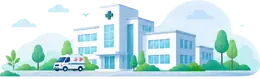
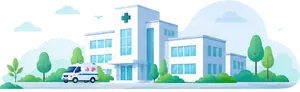
Swap the tile art per theme and add the press animation
Dark mode was dimming and desaturating the light illustrations, which left a
washed-out smudge rather than something drawn for a dark panel. Both cuts of
the sheet now ship and CSS picks by theme, so only the active theme's images
are ever fetched.

Every tile has art: Wards and Reserved take an abstract wave, since no
illustration means the right thing there and a first-aid kit on 'Reserved'
would be worse than none.

Cards shrink on hover and further on press while the art grows slightly -
the counter-motion is what reads as depth. Suppressed under
prefers-reduced-motion: eleven tiles animating at once is what that setting
exists for.

diff --git a/src/styles.css b/src/styles.css
@@ -896,6 +896,20 @@ body.hero-gone .appbar{
   min-height:88px;
   background:var(--panel);border:1px solid var(--line);border-radius:14px;
   padding:10px 11px;text-align:left;box-shadow:var(--shadow);
+  transition:transform .4s ease, box-shadow .4s ease;
+}
+/* Press-in feel: the card shrinks slightly on hover and further on click, while
+   the illustration grows a touch — the counter-motion is what makes it read as
+   depth rather than the whole tile just getting smaller. */
+.doc-stat:hover{transform:scale(.97);box-shadow:var(--shadow-md);}
+.doc-stat:hover .doc-stat-art{transform:scale(1.08);opacity:.55;}
+.doc-stat:active{transform:scale(.94);}
+/* Honour a reduced-motion preference: these tiles are ambient, and a scale
+   animation on eleven of them at once is exactly what that setting is for. */
+@media (prefers-reduced-motion:reduce){
+  .doc-stat,.doc-stat-art{transition:none;}
+  .doc-stat:hover,.doc-stat:active{transform:none;}
+  .doc-stat:hover .doc-stat-art{transform:none;}
 }
 .doc-stat-head{display:flex;align-items:flex-start;gap:6px;min-width:0;position:relative;z-index:1;}
 /* Solid accent disc with a white glyph. Deliberately not a tint: at this size a
@@ -926,24 +940,44 @@ body.hero-gone .appbar{
   line-height:1.2;text-align:center;
 }
 /* Watermark. Bottom-right, bleeding past the corner so it reads as texture
-   rather than a second element. Faint enough that it never competes with the
-   figure. */
+   rather than a second element. */
 .doc-stat-art{
-  position:absolute;right:-12px;bottom:-14px;z-index:0;pointer-events:none;
-  color:var(--accent);opacity:.07;line-height:0;
+  position:absolute;right:-6px;bottom:-6px;z-index:0;pointer-events:none;
+  width:78px;height:56px;
+  background-repeat:no-repeat;background-position:right bottom;background-size:contain;
+  opacity:.42;transition:transform .4s ease, opacity .4s ease;
 }
-[data-theme="dark"] .doc-stat-art{opacity:.12;}
+/* Dark mode swaps the ASSET rather than filtering the light one. Dimming and
+   desaturating a pale-mint illustration still leaves a washed-out grey smudge —
+   the art has to be drawn for a dark panel, not corrected towards one. Because
+   the swap happens in CSS, only the active theme's images are ever fetched. */
+[data-theme="dark"] .doc-stat-art{opacity:.5;}
 
-/* The illustrations are fixed-colour artwork, so unlike the icon watermark they
-   cannot follow a theme token. Two consequences are handled here:
-   - they sit lower in opacity than the icon fallback, because a full-colour
-     picture draws far more attention than a monochrome glyph at the same value;
-   - on dark panels they are dimmed further AND desaturated, since pale mint and
-     sky blue on a near-black card reads as a bright smudge rather than texture. */
-.doc-stat-art--img{
-  right:-10px;bottom:-8px;width:74px;height:auto;opacity:.3;
-}
-[data-theme="dark"] .doc-stat-art--img{opacity:.16;filter:saturate(.55);}
+.art-hospital{background-image:url(/art/hospital.webp);}
+.art-lounge{background-image:url(/art/lounge.webp);}
+.art-doctor{background-image:url(/art/doctor.webp);}
+.art-chart{background-image:url(/art/chart.webp);}
+.art-clipboard{background-image:url(/art/clipboard.webp);}
+.art-calendar{background-image:url(/art/calendar.webp);}
+.art-bed{background-image:url(/art/bed.webp);}
+.art-kit{background-image:url(/art/kit.webp);}
+.art-shield{background-image:url(/art/shield.webp);}
+.art-pulse{background-image:url(/art/pulse.webp);}
+.art-wave2{background-image:url(/art/wave2.webp);}
+.art-wave5{background-image:url(/art/wave5.webp);}
+
+[data-theme="dark"] .art-hospital{background-image:url(/art/hospital-dark.webp);}
+[data-theme="dark"] .art-lounge{background-image:url(/art/lounge-dark.webp);}
+[data-theme="dark"] .art-doctor{background-image:url(/art/doctor-dark.webp);}
+[data-theme="dark"] .art-chart{background-image:url(/art/chart-dark.webp);}
+[data-theme="dark"] .art-clipboard{background-image:url(/art/clipboard-dark.webp);}
+[data-theme="dark"] .art-calendar{background-image:url(/art/calendar-dark.webp);}
+[data-theme="dark"] .art-bed{background-image:url(/art/bed-dark.webp);}
+[data-theme="dark"] .art-kit{background-image:url(/art/kit-dark.webp);}
+[data-theme="dark"] .art-shield{background-image:url(/art/shield-dark.webp);}
+[data-theme="dark"] .art-pulse{background-image:url(/art/pulse-dark.webp);}
+[data-theme="dark"] .art-wave2{background-image:url(/art/wave2-dark.webp);}
+[data-theme="dark"] .art-wave5{background-image:url(/art/wave5-dark.webp);}
 
 /* Illustration in the hero. Deliberately faint and behind the text: it is
    atmosphere, not information, and must never compete with the greeting or the
@@ -951,9 +985,10 @@ body.hero-gone .appbar{
 .doc-hero{position:relative;overflow:hidden;}
 .doc-hero-art{
   display:none;position:absolute;right:0;bottom:0;
-  width:min(300px,40%);height:auto;pointer-events:none;opacity:.55;
+  width:min(300px,40%);height:100%;pointer-events:none;opacity:.8;
+  background-repeat:no-repeat;background-position:right bottom;background-size:contain;
 }
-[data-theme="dark"] .doc-hero-art{opacity:.3;filter:saturate(.6);}
+[data-theme="dark"] .doc-hero-art{opacity:.85;}
 @media (min-width:720px){.doc-hero-art{display:block;}}
 /* Dark panels swallow a 13% fill, so it is lifted just enough to stay visible
    without turning into a shape the eye tracks. */

diff --git a/src/DoctorApp.jsx b/src/DoctorApp.jsx
@@ -415,16 +415,17 @@ function Dashboard({ me, user, onOpenBlock, showSummary, showSearch, onOpenWard,
   // a literal — it drives the badge and the watermark, so a hard-coded value
   // would look wrong the moment the user switches theme.
   const reserved = (s.reserved || 0) + (s.occupied_reserved || 0);
-  // [label, value, accent, note, icon, art]. `art` names a file in public/art —
-  // omitted where no illustration fits, and those tiles fall back to a faint copy
-  // of their own icon rather than borrowing a picture that means something else.
+  // [label, value, accent, note, icon, art]. `art` names a sprite in public/art.
+  // Wards and Reserved have no illustration that means the right thing, so they
+  // take an abstract wave rather than borrowing a picture that says something
+  // else — a first-aid kit on "Reserved" would be worse than no art at all.
   const stats = [
     ["Blocks", me.blocks.length, "var(--doc-a-blocks)", null, "building", "kit"],
-    ["Wards", me.wardCount, "var(--doc-a-wards)", null, "grid", null],
+    ["Wards", me.wardCount, "var(--doc-a-wards)", null, "grid", "wave5"],
     ["Beds", s.total, "var(--doc-a-beds)", outOfService ? `${outOfService} out of service` : null, "bed", "bed"],
     ["Occupied", totalOcc, "var(--st-o)", null, "user", "doctor"],
     ["Vacant", s.vacant, "var(--st-v)", null, "check", "pulse"],
-    ["Reserved", reserved, "var(--doc-a-res)", null, "bookmark", null],
+    ["Reserved", reserved, "var(--doc-a-res)", null, "bookmark", "wave2"],
     ...(lounge ? [["In Lounge", lounge.patients, "var(--doc-a-lounge)",
                    lounge.free ? `${lounge.free} free` : "none free", "clock", "lounge"]] : []),
   ];
@@ -449,7 +450,7 @@ function Dashboard({ me, user, onOpenBlock, showSummary, showSearch, onOpenWard,
                 inherits a theme token — a flat asset would keep its own colours
                 when the user switches theme, which is exactly what looks broken.
                 aria-hidden because it carries no information. */}
-            <img className="doc-hero-art" src="/art/hospital.webp" alt="" aria-hidden="true" loading="lazy" decoding="async" />
+            <span className="doc-hero-art art-hospital" aria-hidden="true" />
           </div>
 
           <div className="doc-statline">
@@ -467,9 +468,11 @@ function Dashboard({ me, user, onOpenBlock, showSummary, showSearch, onOpenWard,
                     information, so it should neither block the first paint nor be
                     announced. Tiles without an illustration fall back to a faint
                     copy of their own icon. */}
-                {art
-                  ? <img className="doc-stat-art doc-stat-art--img" src={`/art/${art}.webp`} alt="" aria-hidden="true" loading="lazy" decoding="async" />
-                  : <span className="doc-stat-art" aria-hidden="true"><Ic d={icons[ic] || icons.grid} s={64} /></span>}
+                {/* CSS background rather than <img>: the sheet ships in a light
+                    and a dark cut, and a stylesheet can swap them on the theme
+                    while markup cannot. It also means only the ACTIVE theme's
+                    images are ever fetched. */}
+                <span className={`doc-stat-art art-${art}`} aria-hidden="true" />
               </div>
             ))}
           </div>

diff --git a/src/DischargeMiniWidget.jsx b/src/DischargeMiniWidget.jsx
@@ -55,7 +55,7 @@ export default function DischargeMiniWidget({ rich = false }) {
               <span className="doc-stat-l">{label.toUpperCase()}</span>
             </span>
             <span className="doc-stat-row"><span className="doc-stat-v">{counts[key]}</span></span>
-            <img className="doc-stat-art doc-stat-art--img" src={`/art/${art}.webp`} alt="" aria-hidden="true" loading="lazy" decoding="async" />
+            <span className={`doc-stat-art art-${art}`} aria-hidden="true" />
           </div>
         ))}
       </div>
